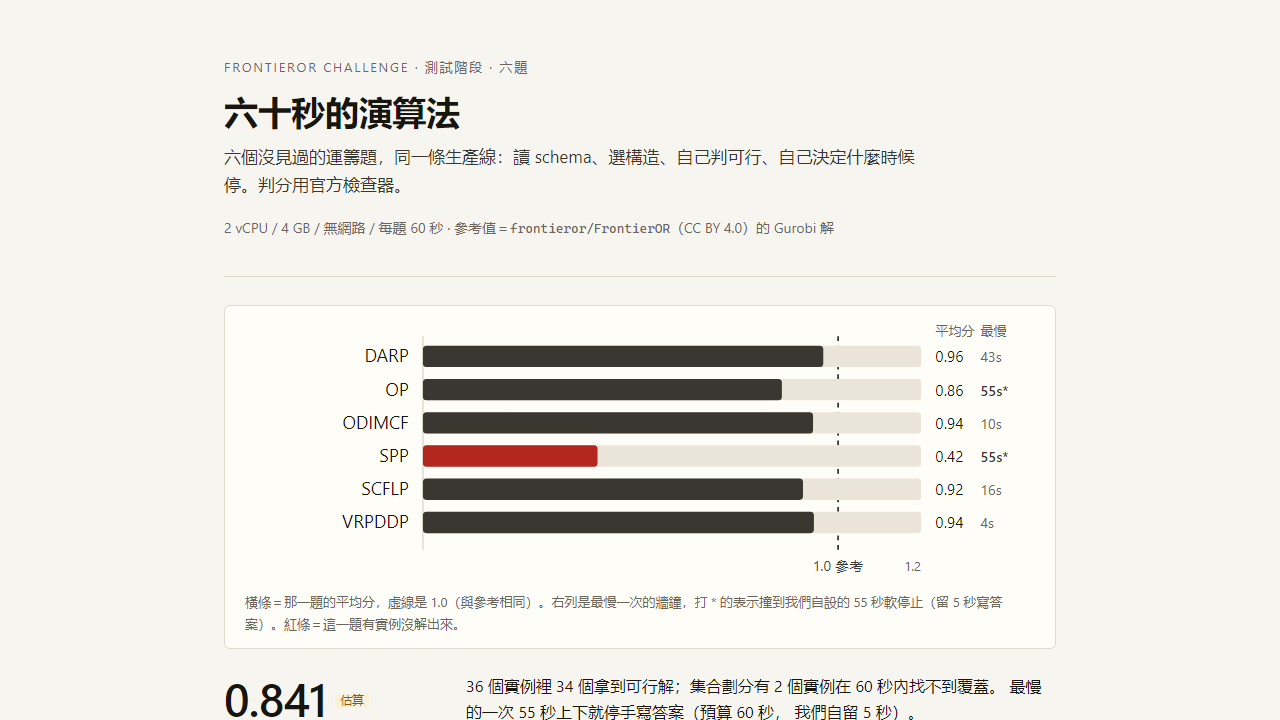
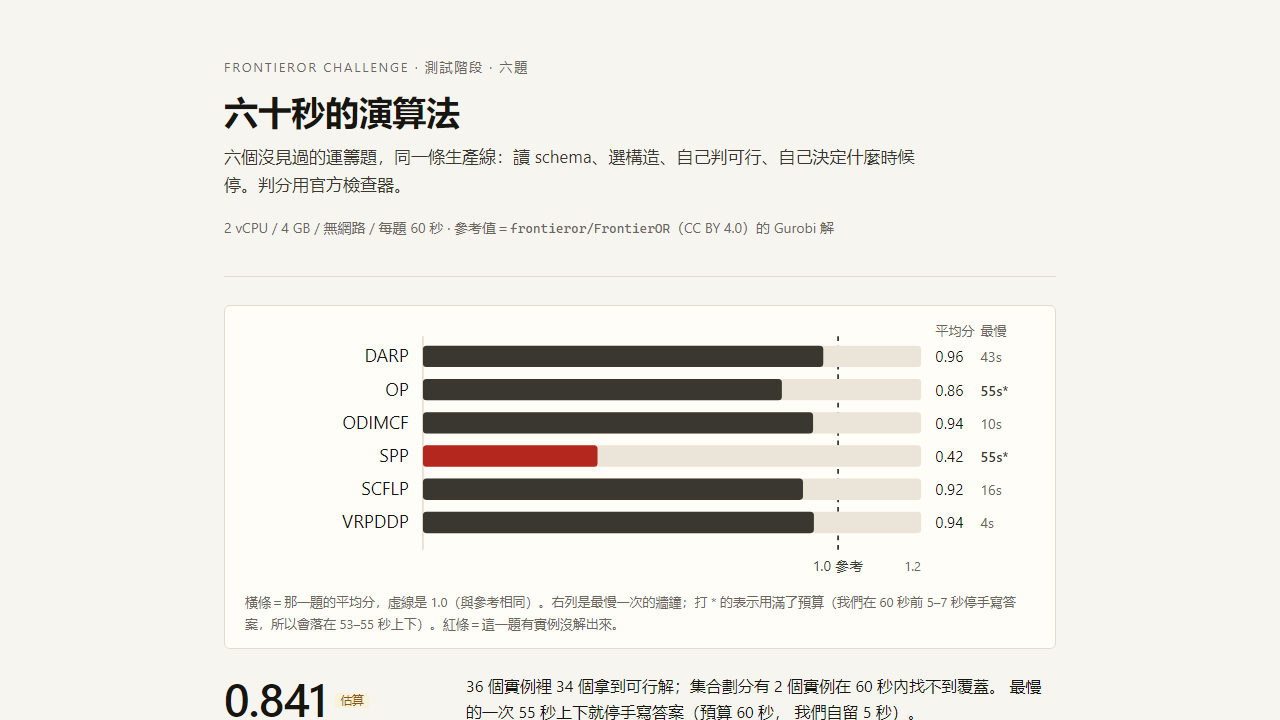
report: separate the two kinds of hardness in SPP, reconcile the two runs, per-instance scores in cards
- the sparse instances are a cost-shape problem (2,117 vs 657); the dense ones are a
  feasibility problem (no exact cover of 100 legs into ~5 sets); the old text mixed them
- quote both runs (2,117/27 and 2,081/29) instead of letting prose and table disagree
- each problem card now lists its per-instance scores: a mean of 0.42 hid 1.00/1.00/0.31/0.21/0/0

Changed region(s): [[0.1875, 0.8556, 0.5, 0.8861], [0.5938, 0.825, 0.8125, 0.8556]]

diff --git a/site/index.html b/site/index.html
@@ -57,6 +57,8 @@
   .mini dt { font-size: 13px; color: var(--muted); }
   .how { font-size: 14px; color: var(--muted); max-width: 46em; }
   .mini dd { margin: 0; font-size: 15px; font-variant-numeric: tabular-nums; }
+  .mini .strip { margin-left: auto; }
+  .mini .strip dd { font-size: 13px; color: var(--muted); }
   .note { background: #fbf8ef; border-left: 3px solid #c8a35a; padding: 16px 20px; margin: 24px 0; font-size: 15px; }
   ul { margin: 0 0 16px; padding-left: 22px; }
   li { margin-bottom: 8px; }
@@ -83,7 +85,7 @@
   <section class="hero">
     <div class="ruler">
       <svg viewBox="0 0 666 222" role="img" aria-label="每題平均分（0 到 1.2，1.0 是參考），右列是最慢一次的牆鐘"><line x1="500.0" y1="12" x2="500.0" y2="192" stroke="#3a3730" stroke-width="1.5" stroke-dasharray="4 4"/><line x1="150" y1="12" x2="150" y2="192" stroke="#d8d2c4" stroke-width="1"/><text x="138" y="34" text-anchor="end" font-size="15" fill="#16150f">DARP</text><rect x="150" y="20" width="420" height="18" fill="#eae5d8" rx="3"/><rect x="150" y="20" width="337.5" height="18" fill="#3a3730" rx="3"/><text x="582" y="34" font-size="13" fill="#16150f">0.96</text><text x="620" y="34" font-size="12" fill="#6b6659">43s</text><text x="138" y="62" text-anchor="end" font-size="15" fill="#16150f">OP</text><rect x="150" y="48" width="420" height="18" fill="#eae5d8" rx="3"/><rect x="150" y="48" width="302.6" height="18" fill="#3a3730" rx="3"/><text x="582" y="62" font-size="13" fill="#16150f">0.86</text><text x="620" y="62" font-size="12" fill="#3a3730" font-weight="600">55s*</text><text x="138" y="90" text-anchor="end" font-size="15" fill="#16150f">ODIMCF</text><rect x="150" y="76" width="420" height="18" fill="#eae5d8" rx="3"/><rect x="150" y="76" width="328.9" height="18" fill="#3a3730" rx="3"/><text x="582" y="90" font-size="13" fill="#16150f">0.94</text><text x="620" y="90" font-size="12" fill="#6b6659">10s</text><text x="138" y="118" text-anchor="end" font-size="15" fill="#16150f">SPP</text><rect x="150" y="104" width="420" height="18" fill="#eae5d8" rx="3"/><rect x="150" y="104" width="147.2" height="18" fill="#b3271e" rx="3"/><text x="582" y="118" font-size="13" fill="#16150f">0.42</text><text x="620" y="118" font-size="12" fill="#3a3730" font-weight="600">55s*</text><text x="138" y="146" text-anchor="end" font-size="15" fill="#16150f">SCFLP</text><rect x="150" y="132" width="420" height="18" fill="#eae5d8" rx="3"/><rect x="150" y="132" width="320.4" height="18" fill="#3a3730" rx="3"/><text x="582" y="146" font-size="13" fill="#16150f">0.92</text><text x="620" y="146" font-size="12" fill="#6b6659">16s</text><text x="138" y="174" text-anchor="end" font-size="15" fill="#16150f">VRPDDP</text><rect x="150" y="160" width="420" height="18" fill="#eae5d8" rx="3"/><rect x="150" y="160" width="329.6" height="18" fill="#3a3730" rx="3"/><text x="582" y="174" font-size="13" fill="#16150f">0.94</text><text x="620" y="174" font-size="12" fill="#6b6659">4s</text><text x="582" y="12" font-size="11" fill="#6b6659">平均分</text><text x="620" y="12" font-size="11" fill="#6b6659">最慢</text><text x="500.0" y="210" text-anchor="middle" font-size="12" fill="#3a3730">1.0 參考</text><text x="570" y="210" text-anchor="end" font-size="11" fill="#6b6659">1.2</text></svg>
-      <p class="cap">橫條＝那一題的平均分，虛線是 1.0（與參考相同）。右列是最慢一次的牆鐘，打 * 的表示撞到我們自設的 55 秒軟停止（留 5 秒寫答案）。紅條＝這一題有實例沒解出來。</p>
+      <p class="cap">橫條＝那一題的平均分，虛線是 1.0（與參考相同）。右列是最慢一次的牆鐘；打 * 的表示用滿了預算（我們在 60 秒前 5–7 秒停手寫答案，所以會落在 53–55 秒上下）。紅條＝這一題有實例沒解出來。</p>
     </div>
     <div class="statline">
       <p class="stat">0.841<span class="tag">估算</span>
@@ -121,6 +123,7 @@
         <dl class="mini">
           <div><dt>平均分</dt><dd class="num">0.964</dd></div>
           <div><dt>最慢一次</dt><dd class="num">42.8s</dd></div>
+          <div class="strip"><dt>各實例</dt><dd class="mono">0.96 0.96 0.95 0.96 0.95 0.99</dd></div>
         </dl>
       </article>
       <article class="card">
@@ -134,6 +137,7 @@
         <dl class="mini">
           <div><dt>平均分</dt><dd class="num">0.865</dd></div>
           <div><dt>最慢一次</dt><dd class="num">55.2s</dd></div>
+          <div class="strip"><dt>各實例</dt><dd class="mono">0.80 0.78 0.82 0.86 0.93 1.00</dd></div>
         </dl>
       </article>
       <article class="card">
@@ -147,6 +151,7 @@
         <dl class="mini">
           <div><dt>平均分</dt><dd class="num">0.940</dd></div>
           <div><dt>最慢一次</dt><dd class="num">9.8s</dd></div>
+          <div class="strip"><dt>各實例</dt><dd class="mono">0.92 0.91 0.93 0.96 0.92 1.00</dd></div>
         </dl>
       </article>
       <article class="card">
@@ -160,6 +165,7 @@
         <dl class="mini">
           <div><dt>平均分</dt><dd class="num">0.420</dd></div>
           <div><dt>最慢一次</dt><dd class="num">55.1s</dd></div>
+          <div class="strip"><dt>各實例</dt><dd class="mono">0.31 1.00 0.21 0.00 0.00 1.00</dd></div>
         </dl>
       </article>
       <article class="card">
@@ -173,6 +179,7 @@
         <dl class="mini">
           <div><dt>平均分</dt><dd class="num">0.915</dd></div>
           <div><dt>最慢一次</dt><dd class="num">15.8s</dd></div>
+          <div class="strip"><dt>各實例</dt><dd class="mono">0.89 0.88 0.90 0.99 0.98 0.85</dd></div>
         </dl>
       </article>
       <article class="card">
@@ -186,18 +193,25 @@
         <dl class="mini">
           <div><dt>平均分</dt><dd class="num">0.942</dd></div>
           <div><dt>最慢一次</dt><dd class="num">3.7s</dd></div>
+          <div class="strip"><dt>各實例</dt><dd class="mono">1.02 0.92 1.01 0.86 1.00 0.83</dd></div>
         </dl>
       </article>
   </div>
 
   <h2>撞牆的那一題</h2>
-  <p>集合劃分（<code>hoffman1993</code>）是唯一沒有全部拿下來的題。原因不是「不夠快」，
-     而是<b>成本與長度無關</b>：15,000 個候選輪轉的成本在 1–200 之間，覆蓋的航班段數在 1–51 之間，
-     所以最優解是「很多很短的輪轉」。分支定界從第一個可行解（約 33 根長輪轉）往下走，
-     每一步都要拆掉一根長的換幾根短的，60 秒內走不到。</p>
-  <p>最密的兩個實例（平均覆蓋 21.6 段、需要約 5 根輪轉）連<b>可行覆蓋</b>都找不到：
-     100 段航班要剛好被 5 個集合切開，在 15,000 個候選裡是一個針尖。純可行性模型跑 15 秒也還是
-     <code>UNKNOWN</code>。這是這條生產線目前真正的邊界，不是調參能解決的。</p>
+  <p>集合劃分（<code>hoffman1993</code>）是唯一沒有全部拿下來的題。它其實是<b>兩種不同的難</b>，
+     分開看才說得通。</p>
+  <p><b>稀疏的那三個實例</b>（每個候選平均覆蓋 12.5 段）：成本 1–200 與長度<b>無關</b>，
+     所以最省錢的湊法偏向「很多很短的輪轉」。表裡那一輪交出來是 <b>2,117 / 27 根</b>，
+     另跑一次（<code>docs/logs/hoffman-large_instance_1.log</code>）是 <b>2,081 / 29 根</b>——
+     同一台機器兩次的差別來自 CP-SAT 的隨機種子。參考值 657（約 8 根），差 3 倍，
+     不是差幾個百分點。</p>
+  <p><b>稠密的兩個實例</b>（每個候選平均覆蓋 21.6 段）：100 段航班要剛好被約 5 個集合切開，
+     在 15,000 個候選裡是一個針尖。這兩個連<b>可行覆蓋</b>都找不到，
+     所以交出去的是空清單——是「沒解出來」，不是輸出格式壞了。</p>
+  <p>這兩件事同源：<b>成本與規模脫鉤時，CP-SAT 的搜索會沿著第一個可行解的形狀往下走，而那通常不是最優解的形狀。</b>
+     要改就得換搜索（例如先把「剛好覆蓋」鬆成允許重疊再修復，或給 CP-SAT 一個「短輪轉優先」的決策策略），
+     不是調時間。</p>
   <p>沒有拿下來的實例：</p>
   <ul><li><code>hoffman1993</code> / <code>large_instance_4</code>：60 秒內沒有找到覆蓋，solver 寫出空清單，檢查器因此判「缺少必要欄位」——是<b>沒解出來</b>，不是輸出格式壞了。</li><li><code>hoffman1993</code> / <code>large_instance_5</code>：60 秒內沒有找到覆蓋，solver 寫出空清單，檢查器因此判「缺少必要欄位」——是<b>沒解出來</b>，不是輸出格式壞了。</li></ul>
 

diff --git a/scripts/build_site.py b/scripts/build_site.py
@@ -66,8 +66,9 @@ PROSE = {
     "conclusion": "36 個實例裡 34 個拿到可行解；集合劃分有 2 個實例在 60 秒內找不到覆蓋。",
     "lede": "六個沒見過的運籌題，同一條生產線：讀 schema、選構造、自己判可行、自己決定什麼時候停。"
             "判分用官方檢查器。",
-    "ruler_note": "橫條＝那一題的平均分，虛線是 1.0（與參考相同）。右列是最慢一次的牆鐘，"
-                  "打 * 的表示撞到我們自設的 55 秒軟停止（留 5 秒寫答案）。紅條＝這一題有實例沒解出來。",
+    "ruler_note": "橫條＝那一題的平均分，虛線是 1.0（與參考相同）。右列是最慢一次的牆鐘；"
+                  "打 * 的表示用滿了預算（我們在 60 秒前 5–7 秒停手寫答案，所以會落在 53–55 秒上下）。"
+                  "紅條＝這一題有實例沒解出來。",
     "score_note": "分數照官方評分頁算：最小化題是「參考 ÷ 我們」，最大化題（本場的定向越野）反過來；"
                   "與參考相同得 1.000，比參考好最多到 2.000。這裡的參考值是<b>基準資料集</b>裡的 Gurobi 目標，"
                   "不是比賽後台凍結的參考值，所以它是估計，不是成績。",
@@ -169,6 +170,7 @@ def build() -> str:
         info = PROBLEMS[slug]
         ok = p["feasible"] == p["instances"]
         badge = "全部可行" if ok else f'{p["feasible"]}/{p["instances"]} 可行'
+        strip = " ".join(f'{r["score"]:.2f}' for r in sorted([x for x in rows if x["slug"] == slug], key=lambda r: r["instance"]))
         cards.append(f"""
       <article class="card">
         <div class="card-head">
@@ -181,6 +183,7 @@ def build() -> str:
         <dl class="mini">
           <div><dt>平均分</dt><dd class="num">{p["mean_score"]:.3f}</dd></div>
           <div><dt>最慢一次</dt><dd class="num">{p["max_wall_s"]:.1f}s</dd></div>
+          <div class="strip"><dt>各實例</dt><dd class="mono">{strip}</dd></div>
         </dl>
       </article>""")
 
@@ -250,6 +253,8 @@ def build() -> str:
   .mini dt {{ font-size: 13px; color: var(--muted); }}
   .how {{ font-size: 14px; color: var(--muted); max-width: 46em; }}
   .mini dd {{ margin: 0; font-size: 15px; font-variant-numeric: tabular-nums; }}
+  .mini .strip {{ margin-left: auto; }}
+  .mini .strip dd {{ font-size: 13px; color: var(--muted); }}
   .note {{ background: #fbf8ef; border-left: 3px solid #c8a35a; padding: 16px 20px; margin: 24px 0; font-size: 15px; }}
   ul {{ margin: 0 0 16px; padding-left: 22px; }}
   li {{ margin-bottom: 8px; }}
@@ -306,13 +311,19 @@ def build() -> str:
   </div>
 
   <h2>撞牆的那一題</h2>
-  <p>集合劃分（<code>hoffman1993</code>）是唯一沒有全部拿下來的題。原因不是「不夠快」，
-     而是<b>成本與長度無關</b>：15,000 個候選輪轉的成本在 1–200 之間，覆蓋的航班段數在 1–51 之間，
-     所以最優解是「很多很短的輪轉」。分支定界從第一個可行解（約 33 根長輪轉）往下走，
-     每一步都要拆掉一根長的換幾根短的，60 秒內走不到。</p>
-  <p>最密的兩個實例（平均覆蓋 21.6 段、需要約 5 根輪轉）連<b>可行覆蓋</b>都找不到：
-     100 段航班要剛好被 5 個集合切開，在 15,000 個候選裡是一個針尖。純可行性模型跑 15 秒也還是
-     <code>UNKNOWN</code>。這是這條生產線目前真正的邊界，不是調參能解決的。</p>
+  <p>集合劃分（<code>hoffman1993</code>）是唯一沒有全部拿下來的題。它其實是<b>兩種不同的難</b>，
+     分開看才說得通。</p>
+  <p><b>稀疏的那三個實例</b>（每個候選平均覆蓋 12.5 段）：成本 1–200 與長度<b>無關</b>，
+     所以最省錢的湊法偏向「很多很短的輪轉」。表裡那一輪交出來是 <b>2,117 / 27 根</b>，
+     另跑一次（<code>docs/logs/hoffman-large_instance_1.log</code>）是 <b>2,081 / 29 根</b>——
+     同一台機器兩次的差別來自 CP-SAT 的隨機種子。參考值 657（約 8 根），差 3 倍，
+     不是差幾個百分點。</p>
+  <p><b>稠密的兩個實例</b>（每個候選平均覆蓋 21.6 段）：100 段航班要剛好被約 5 個集合切開，
+     在 15,000 個候選裡是一個針尖。這兩個連<b>可行覆蓋</b>都找不到，
+     所以交出去的是空清單——是「沒解出來」，不是輸出格式壞了。</p>
+  <p>這兩件事同源：<b>成本與規模脫鉤時，CP-SAT 的搜索會沿著第一個可行解的形狀往下走，而那通常不是最優解的形狀。</b>
+     要改就得換搜索（例如先把「剛好覆蓋」鬆成允許重疊再修復，或給 CP-SAT 一個「短輪轉優先」的決策策略），
+     不是調時間。</p>
   <p>沒有拿下來的實例：</p>
   <ul>{failed_lines}</ul>
 
